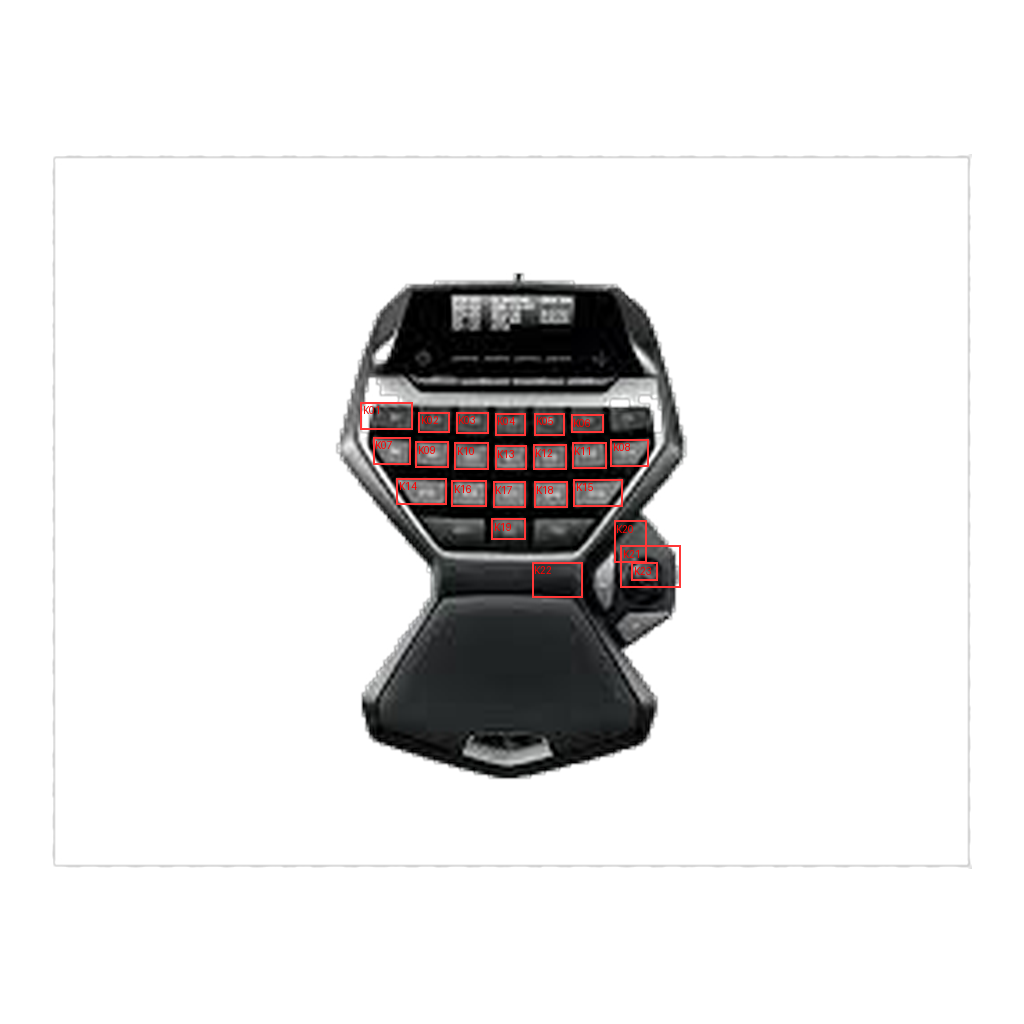
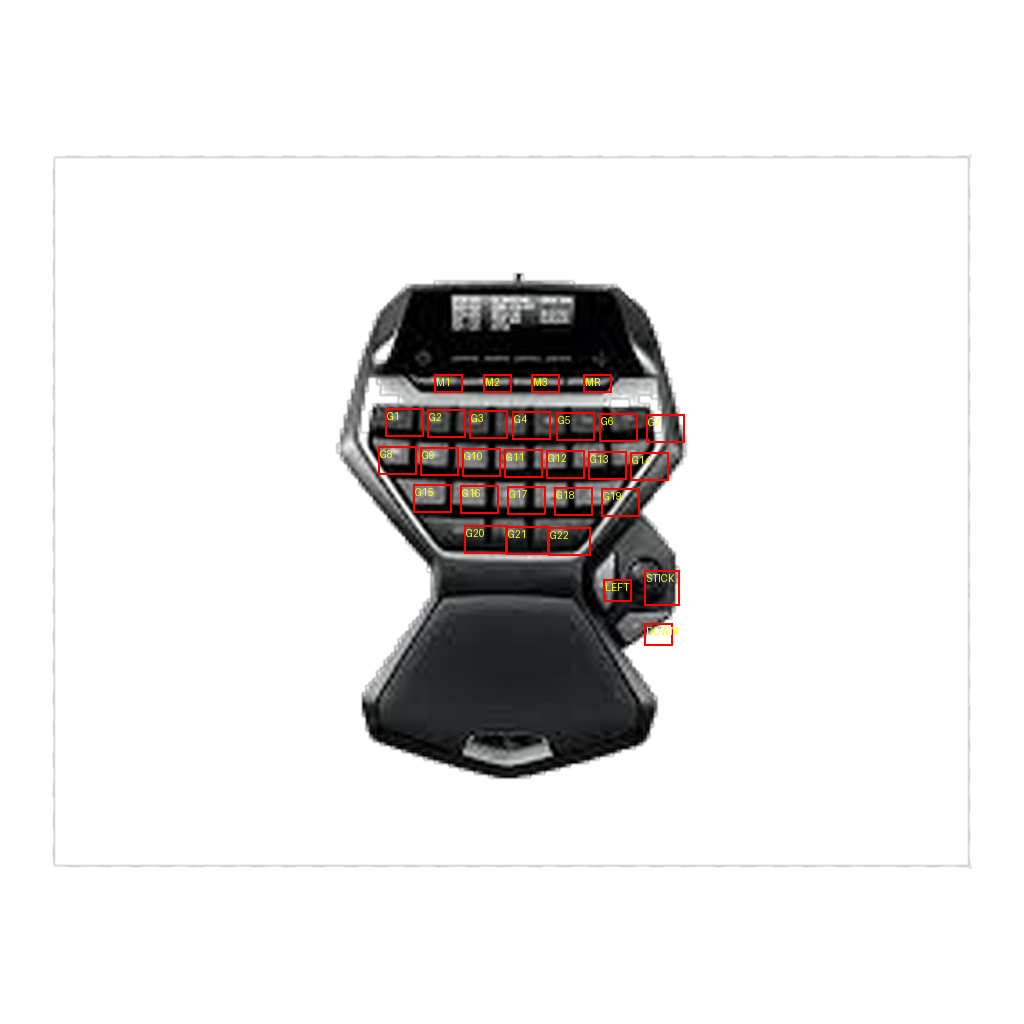
fix(gui): align button overlay positions to smooth consistent rows
Row 2 (G8-G14) had 9px y-jitter causing visible zigzag. Linearized
all rows to smooth ~1px/key slopes matching device angle, regularized
x-spacing within rows. Updated debug overlay image.

Changed region(s): [[0.3438, 0.3438, 0.6562, 0.625]]

diff --git a/src/g13_linux/gui/resources/g13_layout.py b/src/g13_linux/gui/resources/g13_layout.py
@@ -15,32 +15,32 @@ G13_BUTTON_POSITIONS = {
     "M2": _box(483, 374, 28, 18),
     "M3": _box(531, 374, 28, 18),
     "MR": _box(583, 374, 28, 18),
-    # Row 1: G1-G7
+    # Row 1: G1-G7 (smooth slope ~1px/key matching device angle)
     "G1": _box(385, 408, 38, 28),
-    "G2": _box(427, 408, 38, 28),
-    "G3": _box(469, 408, 38, 28),
-    "G4": _box(512, 409, 38, 28),
-    "G5": _box(556, 413, 38, 28),
-    "G6": _box(599, 415, 38, 28),
+    "G2": _box(427, 409, 38, 28),
+    "G3": _box(469, 410, 38, 28),
+    "G4": _box(512, 411, 38, 28),
+    "G5": _box(556, 412, 38, 28),
+    "G6": _box(599, 413, 38, 28),
     "G7": _box(646, 414, 38, 28),
-    # Row 2: G8-G14
-    "G8": _box(378, 448, 38, 28),
-    "G9": _box(419, 452, 38, 28),
-    "G10": _box(461, 445, 38, 28),
-    "G11": _box(501, 453, 38, 28),
-    "G12": _box(544, 451, 38, 28),
-    "G13": _box(584, 447, 38, 28),
-    "G14": _box(630, 444, 38, 28),
-    # Row 3: G15-G19
-    "G15": _box(413, 488, 38, 28),
-    "G16": _box(465, 485, 38, 28),
-    "G17": _box(515, 485, 38, 28),
-    "G18": _box(556, 487, 38, 28),
-    "G19": _box(599, 484, 38, 28),
-    # Row 4: G20-G22
-    "G20": _box(464, 526, 42, 28),
-    "G21": _box(500, 525, 42, 28),
-    "G22": _box(548, 528, 42, 28),
+    # Row 2: G8-G14 (smooth slope, even 42px x-spacing)
+    "G8": _box(378, 446, 38, 28),
+    "G9": _box(420, 447, 38, 28),
+    "G10": _box(462, 448, 38, 28),
+    "G11": _box(504, 449, 38, 28),
+    "G12": _box(546, 450, 38, 28),
+    "G13": _box(588, 451, 38, 28),
+    "G14": _box(630, 452, 38, 28),
+    # Row 3: G15-G19 (smooth slope, even 47px x-spacing)
+    "G15": _box(413, 484, 38, 28),
+    "G16": _box(460, 485, 38, 28),
+    "G17": _box(507, 486, 38, 28),
+    "G18": _box(554, 487, 38, 28),
+    "G19": _box(601, 488, 38, 28),
+    # Row 4: G20-G22 (smooth slope, even 42px x-spacing)
+    "G20": _box(464, 525, 42, 28),
+    "G21": _box(506, 526, 42, 28),
+    "G22": _box(548, 527, 42, 28),
     # Thumb buttons
     "LEFT": _box(603, 579, 28, 22),
     "DOWN": _box(644, 623, 28, 22),
